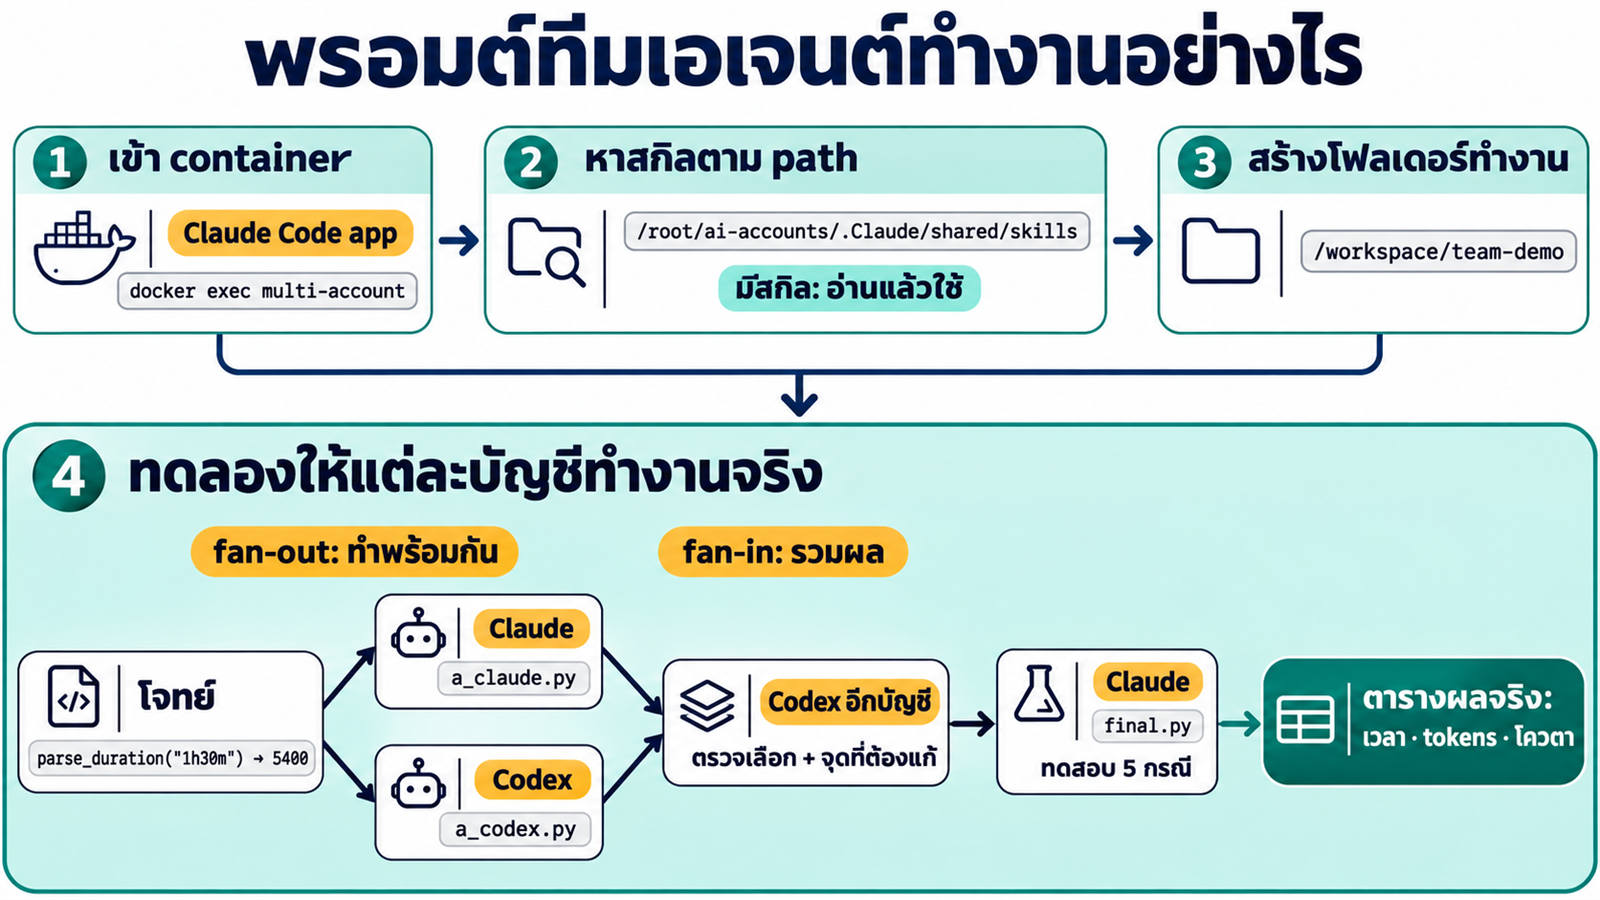
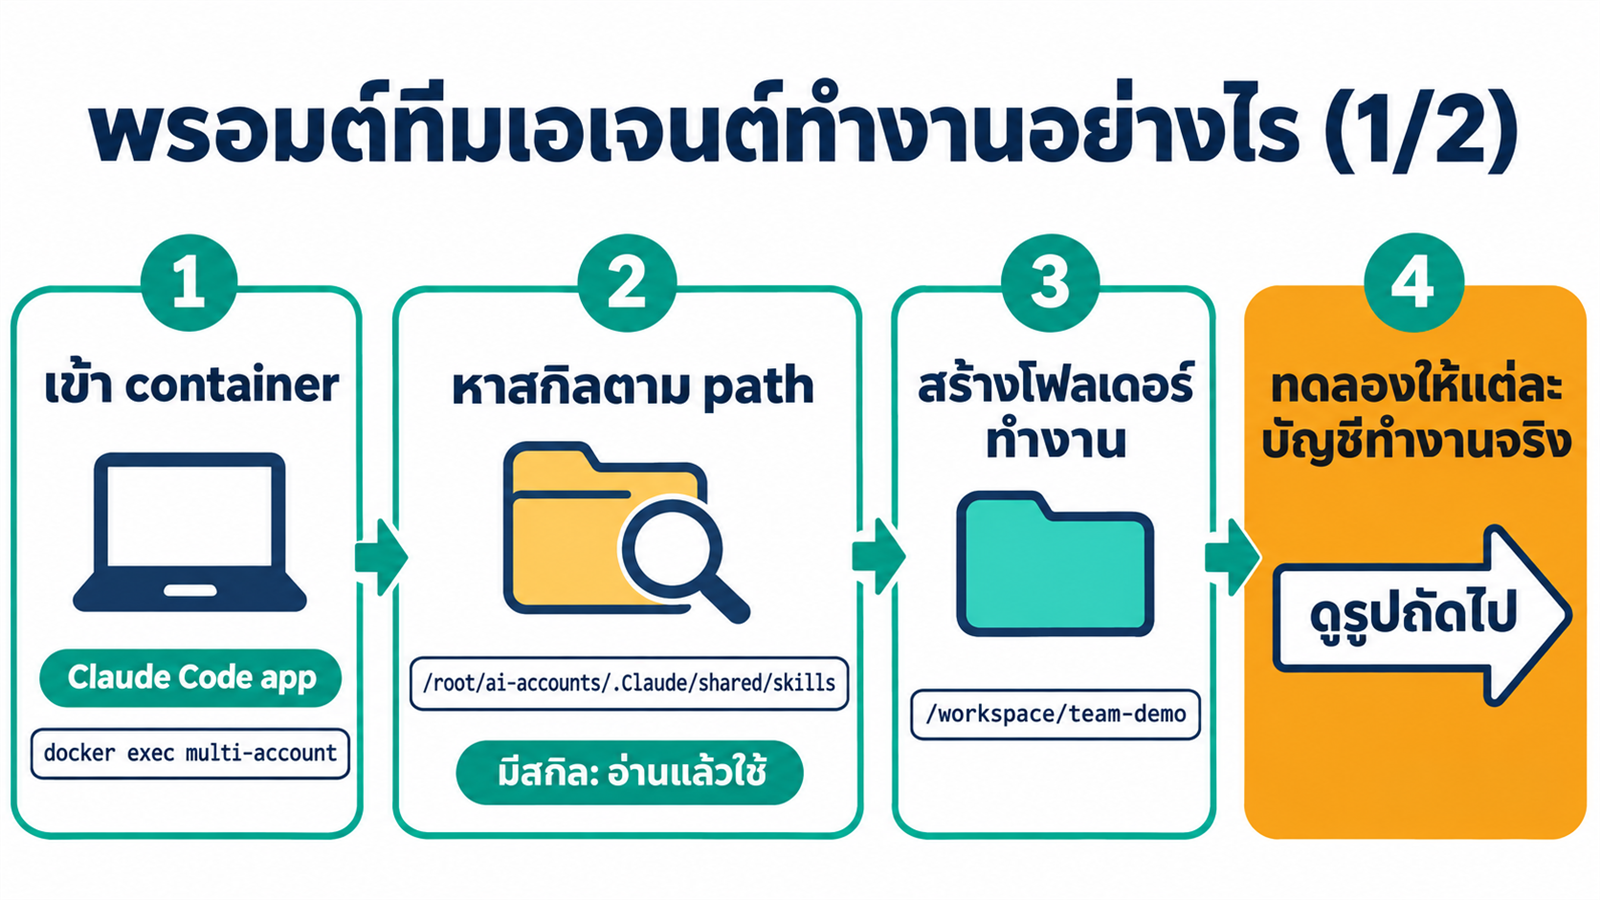
Week 02 ch04: split the team prompt pipeline into two linked images with a clear fan-in

diff --git a/01_week02/04_MultiAccount_Skill/README.md b/01_week02/04_MultiAccount_Skill/README.md
@@ -10,7 +10,11 @@
 
 มาดูกันว่าถ้ายังไม่มีสกิล Claude Code app จะสั่งทีมได้แค่ไหน พรอมต์นี้เตรียม image และ container ให้เองด้วย ถ้าเครื่องยังไม่มี image จะดึงจาก Docker Hub ให้
 
-![พรอมต์ทีมเอเจนต์ทำงานอย่างไร: 1 เข้า container จาก Claude Code app ด้วย docker exec multi-account 2 หาสกิลตาม path /root/ai-accounts/.Claude/shared/skills ถ้ามีสกิลก็อ่านแล้วใช้ 3 สร้างโฟลเดอร์ทำงาน /workspace/team-demo 4 ทดลองให้แต่ละบัญชีทำงานจริงแบบ fan-out และ fan-in โจทย์ parse_duration แตกให้ Claude เขียน a_claude.py และ Codex เขียน a_codex.py พร้อมกัน แล้วรวมผลให้ Codex อีกบัญชีตรวจเลือกและบอกจุดที่ต้องแก้ จากนั้น Claude แก้เป็น final.py ทดสอบ 5 กรณี และได้ตารางผลจริง เวลา tokens โควตา](img/concept-15-team-prompt-pipeline.png)
+![พรอมต์ทีมเอเจนต์ทำงานอย่างไร ส่วนที่ 1 จาก 2: 1 เข้า container จาก Claude Code app ด้วย docker exec multi-account 2 หาสกิลตาม path /root/ai-accounts/.Claude/shared/skills ถ้ามีสกิลก็อ่านแล้วใช้ 3 สร้างโฟลเดอร์ทำงาน /workspace/team-demo 4 ทดลองให้แต่ละบัญชีทำงานจริง ดูรูปถัดไป](img/concept-15-team-prompt-pipeline.png)
+
+ขั้นที่ 4 เป็นแบบ **fan-out แล้ว fan-in**: แตกโจทย์ให้ 2 บัญชีทำพร้อมกัน แล้วรวมผลเข้าบัญชีเดียวเพื่อตรวจเลือก
+
+![ขั้นที่ 4 ต่อจากขั้นที่ 3 ส่วนที่ 2 จาก 2: FAN-OUT แตกงาน โจทย์ parse_duration ให้ Claude เขียน a_claude.py และ Codex เขียน a_codex.py พร้อมกัน FAN-IN รวมผล ทั้งสองไฟล์เข้าหา Codex อีกบัญชีเพื่อตรวจเลือกและบอกจุดที่ต้องแก้ แก้และทดสอบ Claude แก้เป็น final.py ทดสอบ 5 กรณี แล้วได้ตารางผลจริง เวลา tokens โควตา](img/concept-16-team-fan-out-fan-in.png)
 
 งานของทีมมี 4 ขั้น
 
